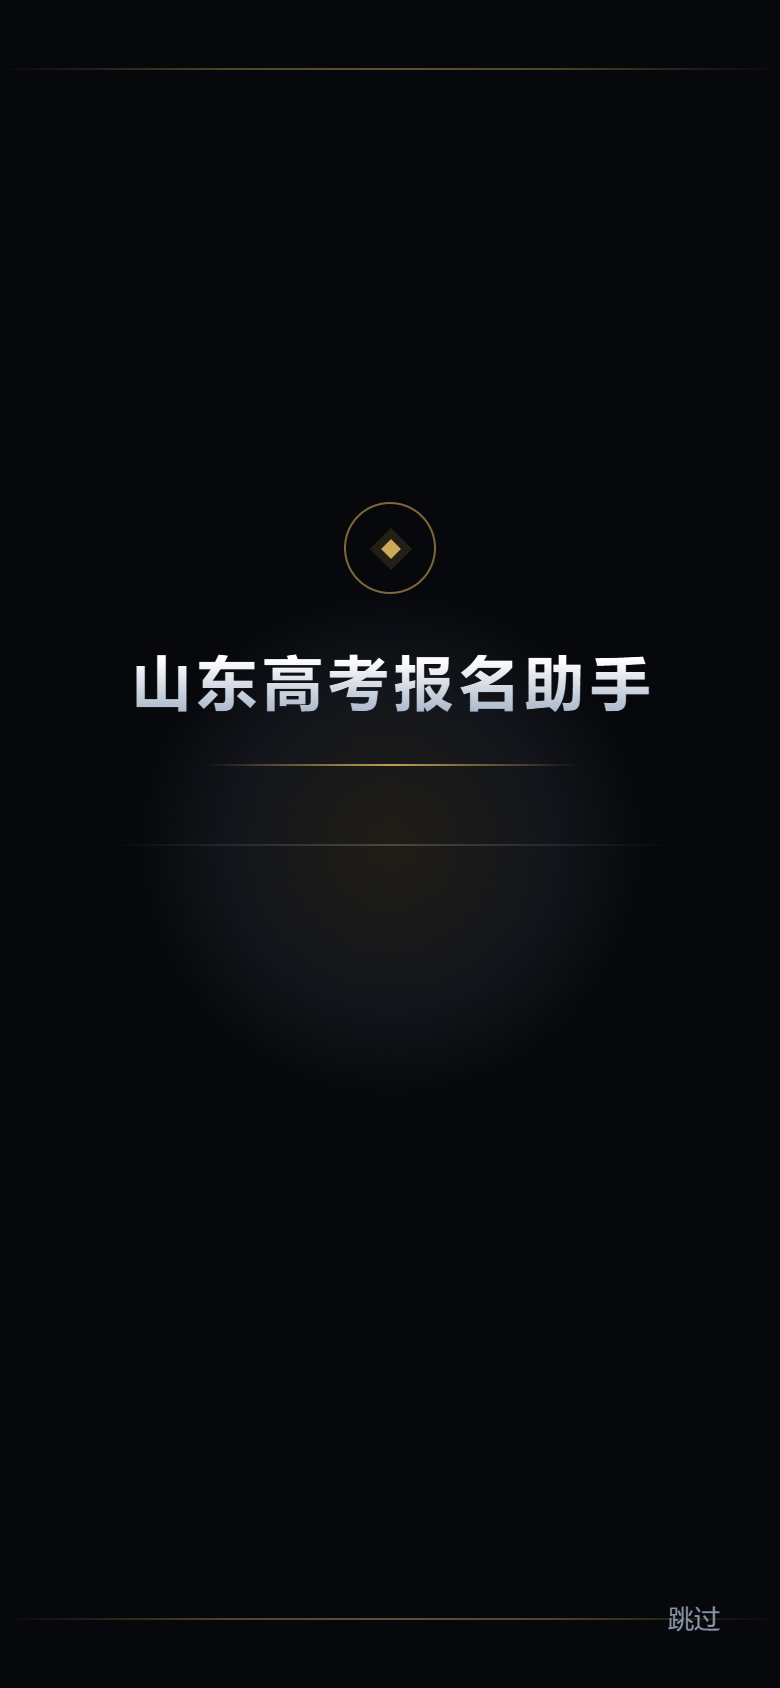
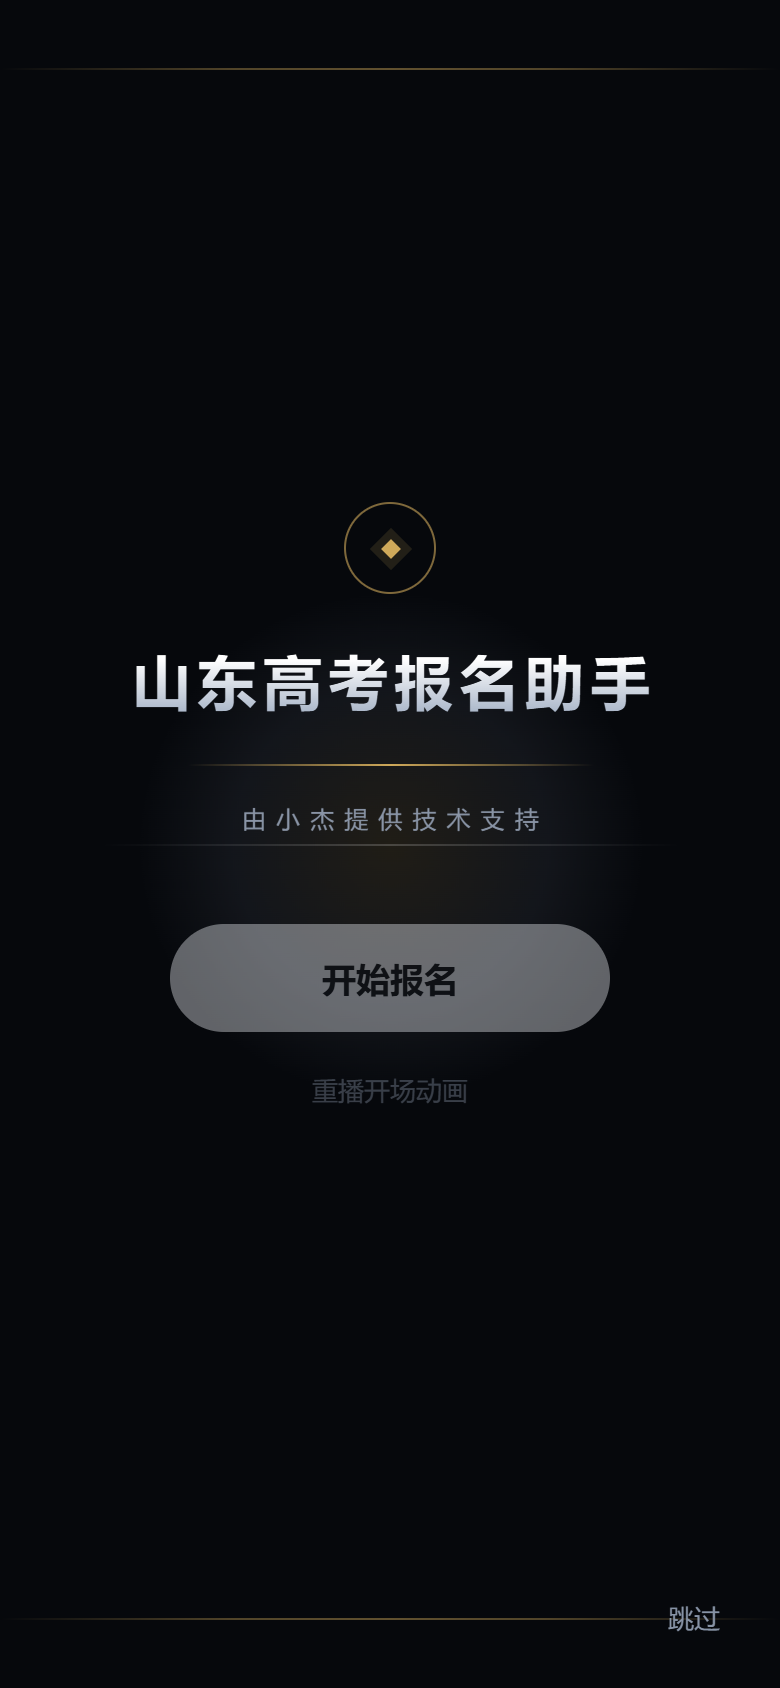
开场动画 V4：Apple 级联瀑布节奏（参照 Designing Fluid Interfaces 重排）——元素错峰并行、临界阻尼缓动，有限动画 5.7s→2.7s；性能实测 54.5fps/仅2长帧，转场 58.3fps；E2E 断言 ≤4s（47/47）

diff --git a/index.html b/index.html
@@ -410,45 +410,47 @@ body.xj-lock{overflow:hidden}
       a(sheen, [{ opacity: 0 }], { duration: 1 });
       skip.style.display = 'none'; return;
     }
-    /* 权威电动节奏 V3（有限动画总时长约 5.65s）：上下鎏金界线 → 光晕/光线 → 金印徽记 → 主标题中线撑开 → 鎏金扫光 → 金线 → 副标题 → CTA → 底注；
+    /* 权威电动节奏 V4（iOS 级联瀑布式，有限动画总时长约 2.7s）：
+       Apple 流畅感要诀 = 元素错峰并行启动、绝不排队等上一幕走完；临界阻尼缓动（无回弹）显快且稳。
+       界线/光晕(0s) → 徽记(0.35s) → 标题(0.6s) → 扫光/金线(1.3s) → 副标题(1.65s) → CTA(1.95s) → 底注(2.15s)；
        光晕与 CTA 之后进入极缓呼吸循环（仅 transform，合成器，不掉帧） */
     a(beamT, [
       { opacity: 0, transform: 'scaleX(0)' },
       { opacity: .9, transform: 'scaleX(1)', offset: .7 },
       { opacity: .5, transform: 'scaleX(1)' }
-    ], { duration: 1400, delay: 250, easing: 'ease-out' });
+    ], { duration: 1100, easing: 'ease-out' });
     a(beamB, [
       { opacity: 0, transform: 'scaleX(0)' },
       { opacity: .9, transform: 'scaleX(1)', offset: .7 },
       { opacity: .5, transform: 'scaleX(1)' }
-    ], { duration: 1400, delay: 480, easing: 'ease-out' });
-    a(glow, [{ opacity: 0 }, { opacity: 1 }], { duration: 2600, easing: 'ease-out' });
+    ], { duration: 1100, delay: 120, easing: 'ease-out' });
+    a(glow, [{ opacity: 0 }, { opacity: 1 }], { duration: 1600, easing: 'ease-out' });
     a(glow, [{ transform: 'scale(1)' }, { transform: 'scale(1.05)' }, { transform: 'scale(1)' }],
-      { duration: 6000, delay: 2600, iterations: Infinity, easing: 'ease-in-out' });
+      { duration: 6000, delay: 1600, iterations: Infinity, easing: 'ease-in-out' });
     a(light, [
       { opacity: 0, transform: 'scaleX(0)' },
       { opacity: .95, transform: 'scaleX(1)', offset: .35 },
       { opacity: .22, transform: 'scaleX(1)' }
-    ], { duration: 2200, delay: 400, easing: 'ease-out' });
+    ], { duration: 1400, delay: 150, easing: 'ease-out' });
     a(crest, [
       { opacity: 0, transform: 'scale(.5) rotate(-24deg)' },
       { opacity: 1, transform: 'scale(1) rotate(0deg)' }
-    ], { duration: 900, delay: 950, easing: E1 });
+    ], { duration: 650, delay: 350, easing: E1 });
     a(title, [
       { opacity: 0, transform: 'scaleY(.04) scaleX(1.03)' },
       { opacity: 1, transform: 'scaleY(1) scaleX(1)' }
-    ], { duration: 1400, delay: 1250, easing: E1 });
+    ], { duration: 850, delay: 600, easing: E1 });
     a(sheen, [
       { opacity: 0, transform: 'translateX(-170%) skewX(-14deg)' },
       { opacity: .9, transform: 'translateX(20%) skewX(-14deg)', offset: .45 },
       { opacity: 0, transform: 'translateX(190%) skewX(-14deg)' }
-    ], { duration: 950, delay: 2560, easing: 'cubic-bezier(.4,0,.2,1)' });
-    a(rule, [{ opacity: 0, transform: 'scaleX(0)' }, { opacity: 1, transform: 'scaleX(1)' }], { duration: 900, delay: 2900, easing: E1 });
-    a(sub, [{ opacity: 0, transform: 'translateY(8px)' }, { opacity: 1, transform: 'translateY(0)' }], { duration: 900, delay: 3800, easing: E1 });
-    var last = a(cta, [{ opacity: 0, transform: 'translateY(12px)' }, { opacity: 1, transform: 'translateY(0)' }], { duration: 800, delay: 4650, easing: E1 });
+    ], { duration: 700, delay: 1300, easing: 'cubic-bezier(.4,0,.2,1)' });
+    a(rule, [{ opacity: 0, transform: 'scaleX(0)' }, { opacity: 1, transform: 'scaleX(1)' }], { duration: 650, delay: 1400, easing: E1 });
+    a(sub, [{ opacity: 0, transform: 'translateY(8px)' }, { opacity: 1, transform: 'translateY(0)' }], { duration: 600, delay: 1650, easing: E1 });
+    var last = a(cta, [{ opacity: 0, transform: 'translateY(12px)' }, { opacity: 1, transform: 'translateY(0)' }], { duration: 650, delay: 1950, easing: E1 });
     a(cta, [{ transform: 'scale(1)' }, { transform: 'scale(1.014)' }, { transform: 'scale(1)' }],
-      { duration: 3800, delay: 5500, iterations: Infinity, easing: 'ease-in-out' });
-    a(note, [{ opacity: 0 }, { opacity: 1 }], { duration: 700, delay: 4900, easing: 'ease-out' });
+      { duration: 5000, delay: 2650, iterations: Infinity, easing: 'ease-in-out' });
+    a(note, [{ opacity: 0 }, { opacity: 1 }], { duration: 550, delay: 2150, easing: 'ease-out' });
     last.finished.then(function () { skip.style.display = 'none'; }).catch(function () {});
   }
 

diff --git a/test/perf-v3.js b/test/perf-v3.js
@@ -1,34 +1,42 @@
+/* V4 动画性能实测：两轮分离 —— 第一轮纯帧率测量（零截图干扰），第二轮纯截图取帧 */
 const { chromium } = require('playwright-core');
+const BASE = 'http://127.0.0.1:8971';
 (async () => {
   const browser = await chromium.launch({ channel: 'msedge', headless: true, args: ['--no-proxy-server'] });
-  const page = await browser.newPage({ viewport: { width: 390, height: 844 }, deviceScaleFactor: 2 });
-  await page.goto('http://127.0.0.1:8971/', { waitUntil: 'domcontentloaded' });
-  // rAF 帧统计 + 长帧检测（覆盖整个 6.5s 动画窗口）
-  await page.evaluate(() => {
-    window.__frames = 0; window.__long = 0; window.__t0 = performance.now();
-    const loop = (t) => {
-      window.__frames++;
-      if (window.__last && t - window.__last > 32) window.__long++;
-      window.__last = t;
-      if (performance.now() - window.__t0 < 6500) requestAnimationFrame(loop);
-    };
+
+  /* 第一轮：动画窗口帧率（无任何截图） */
+  const p1 = await browser.newPage({ viewport: { width: 390, height: 844 } });
+  await p1.goto(BASE + '/', { waitUntil: 'domcontentloaded' });
+  await p1.evaluate(() => {
+    window.__frames = 0; window.__long = 0; window.__t0 = performance.now(); window.__last = 0;
+    const loop = (t) => { window.__frames++; if (window.__last && t - window.__last > 32) window.__long++; window.__last = t;
+      if (performance.now() - window.__t0 < 3300) requestAnimationFrame(loop); };
     requestAnimationFrame(loop);
   });
-  const shots = [[1300,'v3-beams'],[2100,'v3-crest-title'],[3050,'v3-sheen'],[4300,'v3-sub'],[5900,'v3-cta']];
-  for (const [ms, name] of shots) {
-    await page.waitForTimeout(ms - (await page.evaluate(() => performance.now() - window.__t0)));
-    await page.screenshot({ path: 'assets/' + name + '.png' });
-  }
-  const r = await page.evaluate(() => ({ frames: window.__frames, long: window.__long, dur: Math.round(performance.now() - window.__t0) }));
-  console.log('帧数=' + r.frames, '时长=' + r.dur + 'ms', 'fps≈' + (r.frames / (r.dur / 1000)).toFixed(1), '长帧(>32ms)=' + r.long);
-  // 进入转场流畅度
-  await page.evaluate(() => { window.__f2 = 0; window.__l2 = 0; window.__t2 = performance.now();
+  await p1.waitForTimeout(3400);
+  const r1 = await p1.evaluate(() => ({ f: window.__frames, l: window.__long, d: Math.round(performance.now() - window.__t0) }));
+  console.log('入场动画: 帧数=' + r1.f, '时长=' + r1.d + 'ms', 'fps≈' + (r1.f / (r1.d / 1000)).toFixed(1), '长帧(>32ms)=' + r1.l);
+
+  /* 转场帧率：force click（呼吸循环导致元素持续微动，属正常） */
+  await p1.evaluate(() => { window.__f2 = 0; window.__l2 = 0; window.__t2 = performance.now(); window.__last2 = 0;
     const l = (t) => { window.__f2++; if (window.__last2 && t - window.__last2 > 32) window.__l2++; window.__last2 = t;
       if (performance.now() - window.__t2 < 1200) requestAnimationFrame(l); }; requestAnimationFrame(l); });
-  await page.click('#xjEnter');
-  await page.waitForTimeout(1300);
-  const r2 = await page.evaluate(() => ({ f: window.__f2, l: window.__l2 }));
-  console.log('转场: 帧数=' + r2.f, 'fps≈' + (r2.f / 1.2).toFixed(1), '长帧=' + r2.l);
-  await page.screenshot({ path: 'assets/v3-main.png' });
+  await p1.click('#xjEnter', { force: true });
+  await p1.waitForTimeout(1300);
+  const r2 = await p1.evaluate(() => ({ f: window.__f2, l: window.__l2 }));
+  console.log('进入转场: 帧数=' + r2.f, 'fps≈' + (r2.f / 1.2).toFixed(1), '长帧=' + r2.l);
+  await p1.screenshot({ path: 'assets/v3-main.png' });
+  await p1.close();
+
+  /* 第二轮：全新会话截图关键帧 */
+  const p2 = await browser.newPage({ viewport: { width: 390, height: 844 }, deviceScaleFactor: 2 });
+  await p2.goto(BASE + '/', { waitUntil: 'domcontentloaded' });
+  const shots = [[500, 'v3-beams'], [900, 'v3-crest-title'], [1500, 'v3-sheen'], [2100, 'v3-sub'], [3000, 'v3-cta']];
+  let prev = 0;
+  for (const [ms, name] of shots) {
+    await p2.waitForTimeout(ms - prev); prev = ms;
+    await p2.screenshot({ path: 'assets/' + name + '.png' });
+  }
   await browser.close();
+  console.log('截图完成');
 })().catch(e => { console.error(e); process.exit(1); });

diff --git a/test/e2e.js b/test/e2e.js
@@ -55,13 +55,13 @@ function computeCheck(first17) {
       if (!document.querySelector('.xj-btn') || document.querySelector('.xj-btn').textContent.indexOf('开始报名') < 0) throw new Error('CTA 按钮缺失');
     });
   });
-  await t('节奏合规：入场有限动画总时长 ≤ 6.5s（读 WAAPI 时序实测，呼吸循环除外）', () => {
+  await t('节奏合规：入场有限动画总时长 ≤ 4s（读 WAAPI 时序实测，呼吸循环除外）', () => {
     return page.evaluate(() => {
       const anims = document.getElementById('xjSplash').getAnimations({ subtree: true })
         .filter(x => x.effect.getTiming().iterations !== Infinity);
       if (!anims.length) throw new Error('未检测到开场动画');
       const maxEnd = Math.max(...anims.map(x => x.effect.getTiming().delay + (typeof x.effect.getTiming().duration === 'number' ? x.effect.getTiming().duration : 0)));
-      if (maxEnd > 6500) throw new Error('总时长 ' + Math.round(maxEnd) + 'ms 超出 6.5s');
+      if (maxEnd > 4000) throw new Error('总时长 ' + Math.round(maxEnd) + 'ms 超出 4s');
     });
   });
   await t('文案权威且诚实：副标题含技术支持方、底注含「非官方」，无「官方指定/授权」类违规字样', () => {
